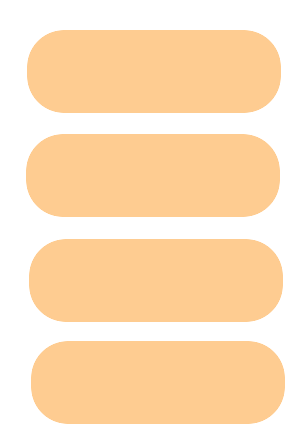
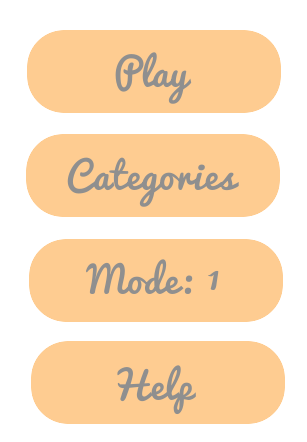
stuff

diff --git a/script.js b/script.js
@@ -78,6 +78,7 @@ var Game;
             this.menu_background1 = new Image();
             this.menu_background2 = new Image();
             this.buttons = new Image();
+            this.buttons2 = new Image();
             this.game_background = new Image();
             this.game_background2 = new Image();
             this.forehead = new Image();
@@ -121,9 +122,10 @@ var Game;
             this.slime.src = "slime.png";
             this.blueBackground.src = "blueBackground.png";
             this.buttons.src = "buttons.png";
+            this.buttons2.src = "buttons2.png";
         }
         Resources.prototype.hasLoaded = function () {
-            return (this.menu_background1.complete && this.menu_background2.complete && this.game_background.complete && this.game_background2.complete && this.roundPicking.complete && this.forehead.complete && this.pass.complete && this.correct.complete && this.endGame_background.complete && this.rightArrow.complete && this.rightArrowPressed.complete && this.leftArrowPressed.complete && this.category_background.complete && this.category_background1.complete && this.noCatSel.complete && this.balloon.complete && this.orangeBackground.complete && this.stand.complete && this.blueBackground.complete && this.slime.complete && this.kids.complete && this.buttons.complete);
+            return (this.menu_background1.complete && this.menu_background2.complete && this.game_background.complete && this.game_background2.complete && this.roundPicking.complete && this.forehead.complete && this.pass.complete && this.correct.complete && this.endGame_background.complete && this.rightArrow.complete && this.rightArrowPressed.complete && this.leftArrowPressed.complete && this.category_background.complete && this.category_background1.complete && this.noCatSel.complete && this.balloon.complete && this.orangeBackground.complete && this.stand.complete && this.blueBackground.complete && this.slime.complete && this.kids.complete && this.buttons.complete && this.buttons2.complete);
         };
         return Resources;
     })();
@@ -156,6 +158,7 @@ var Game;
             this.animationThree = false;
             this.youCanClick = false;
             this.balloonHeight = this.height * 200 / 667;
+            this.buttons2 = this.resources.buttons2;
         }
         MenuView.prototype.renderNotEnoughCategories = function (height, velocity, friction) {
             clearTimeout(this.balloonAnimation);
@@ -186,11 +189,14 @@ var Game;
             this.context.clearRect(0, 0, this.width, this.height);
         };
         MenuView.prototype.drawBackGround = function () {
+            this.context.drawImage(this.menu_background1, 0, 0, this.width, this.height);
+        };
+        MenuView.prototype.drawButtons = function () {
             if (this.gameMode == 1) {
-                this.context.drawImage(this.menu_background1, 0, 0, this.width, this.height);
+                this.context.drawImage(this.buttons, this.width / 4, this.height / 2.5, this.width / 2, this.height / 2.4);
             }
             else {
-                this.context.drawImage(this.menu_background2, 0, 0, this.width, this.height);
+                this.context.drawImage(this.buttons2, this.width / 4, this.height / 2.5, this.width / 2, this.height / 2.4);
             }
         };
         MenuView.prototype.render = function (gameMode) {
@@ -235,7 +241,7 @@ var Game;
                 this.clearCanvas();
                 this.drawBackGround();
                 this.context.drawImage(this.balloon, this.width - this.width * 230 / 375, height, this.width * 280 / 375, this.height * 320 / 667);
-                this.context.drawImage(this.buttons, this.width / 4, this.height / 2.5, this.width / 2, this.height / 2.4);
+                this.drawButtons();
                 height -= .1;
                 var self = this;
                 var f = function () {
@@ -247,7 +253,7 @@ var Game;
                 this.clearCanvas();
                 this.drawBackGround();
                 this.context.drawImage(this.balloon, this.width - this.width * 230 / 375, height, this.width * 280 / 375, this.height * 320 / 667);
-                this.context.drawImage(this.buttons, this.width / 4, this.height / 2.5, this.width / 2, this.height / 2.4);
+                this.drawButtons();
                 height += .1;
                 var self = this;
                 var f = function () {

diff --git a/MenuView.ts b/MenuView.ts
@@ -23,6 +23,7 @@ module Game{
 		animationTwo:boolean;
 		animationThree:boolean;
 		buttons;
+		buttons2;
 		
 		balloonHeight;
 		
@@ -50,6 +51,7 @@ module Game{
 			this.animationThree = false;
 			this.youCanClick = false;
 			this.balloonHeight = this.height*200/667;
+			this.buttons2 = this.resources.buttons2;
 		}
 		renderNotEnoughCategories(height,velocity,friction){
 			clearTimeout(this.balloonAnimation);
@@ -78,13 +80,17 @@ module Game{
 			this.context.clearRect(0, 0, this.width, this.height);
 		}
 		drawBackGround(){
+			this.context.drawImage(this.menu_background1, 0, 0, this.width, this.height);	
+		}
+		drawButtons(){
 			if(this.gameMode == 1){
-				this.context.drawImage(this.menu_background1, 0, 0, this.width, this.height);
-			
+				this.context.drawImage(this.buttons,this.width/4,this.height/2.5,this.width/2,this.height/2.4);
+				
 			}else{
-				this.context.drawImage(this.menu_background2, 0, 0, this.width, this.height);
+				this.context.drawImage(this.buttons2,this.width/4,this.height/2.5,this.width/2,this.height/2.4);
 			}
 		}
+		
 		render(gameMode){
 			if(this.balloonAnimation){
 				clearTimeout(this.balloonAnimation);
@@ -129,7 +135,7 @@ module Game{
 				this.clearCanvas();
 				this.drawBackGround();
 				this.context.drawImage(this.balloon,this.width - this.width*230/375,height,this.width*280/375,this.height*320/667);
-			this.context.drawImage(this.buttons,this.width/4,this.height/2.5,this.width/2,this.height/2.4);
+				this.drawButtons();
 				height-=.1;
 				var self = this
 				var f = function(){self.balloonAnimation1(height,top,bottom,direction)};
@@ -138,7 +144,7 @@ module Game{
 				this.clearCanvas();
 				this.drawBackGround();
 				this.context.drawImage(this.balloon,this.width - this.width*230/375,height,this.width*280/375,this.height*320/667);
-				this.context.drawImage(this.buttons,this.width/4,this.height/2.5,this.width/2,this.height/2.4);
+				this.drawButtons();
 				height+=.1;
 				var self = this
 				var f = function(){self.balloonAnimation1(height,top,bottom,direction)};

diff --git a/Resources.ts b/Resources.ts
@@ -4,6 +4,7 @@ module Game{
 		menu_background1 = new Image();
 		menu_background2 = new Image();
 		buttons = new Image();
+		buttons2 = new Image();
 		game_background = new Image();
 		game_background2 = new Image();
 		forehead = new Image();
@@ -49,6 +50,7 @@ module Game{
 			this.slime.src = "slime.png";
 			this.blueBackground.src = "blueBackground.png";
 			this.buttons.src = "buttons.png";
+			this.buttons2.src = "buttons2.png";
 			
 		
 		}
@@ -74,7 +76,8 @@ module Game{
 			this.blueBackground.complete &&
 			this.slime.complete &&
 			this.kids.complete &&
-			this.buttons.complete);
+			this.buttons.complete&&
+			this.buttons2.complete);
 		}
 		
 	}
